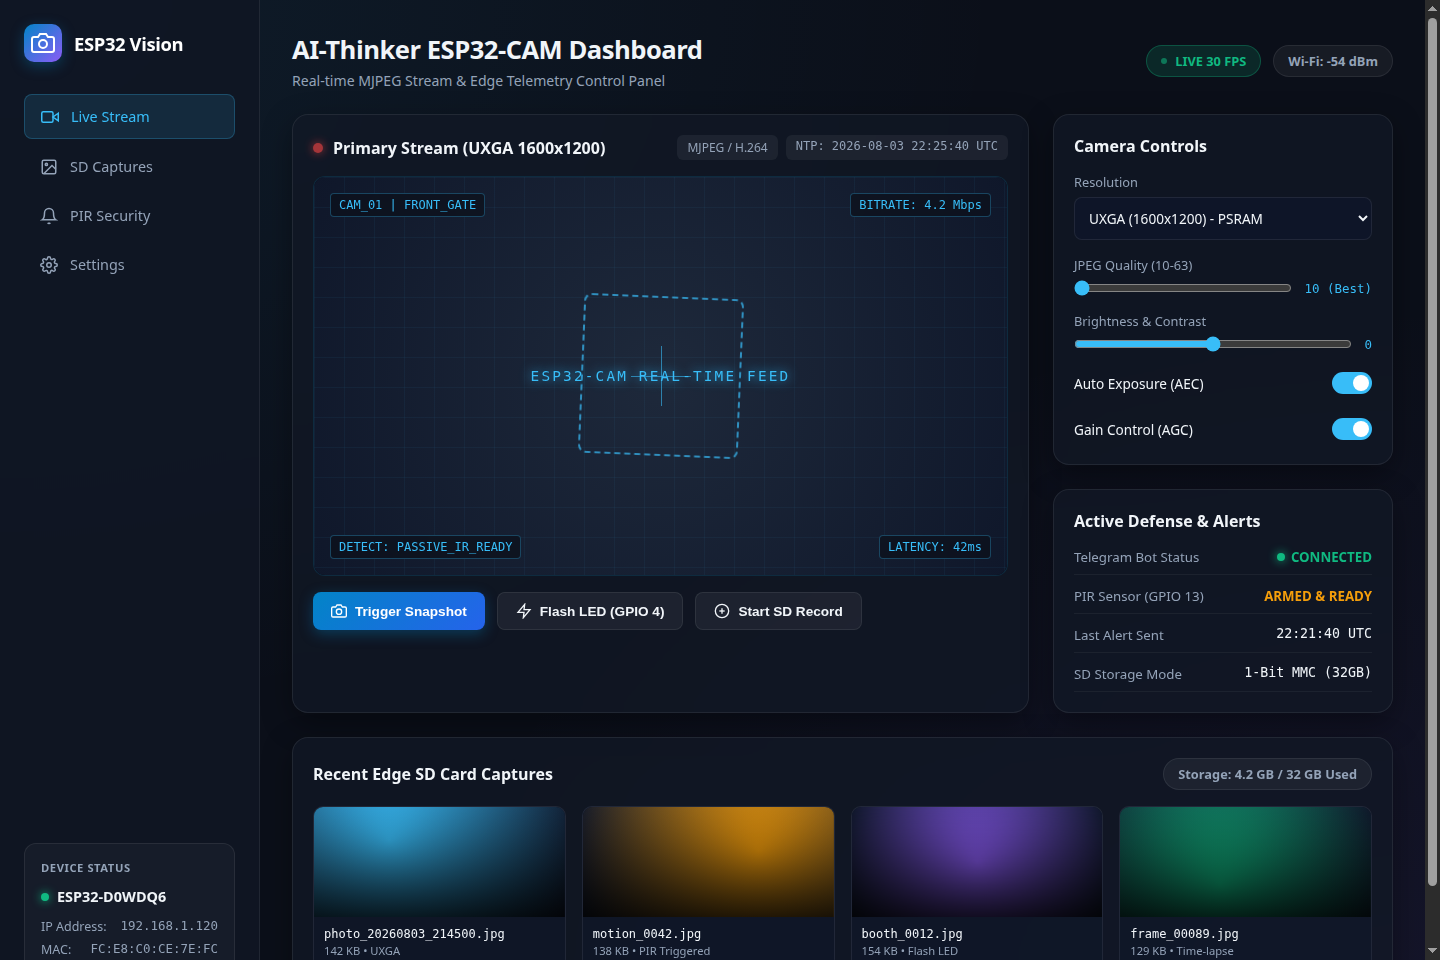
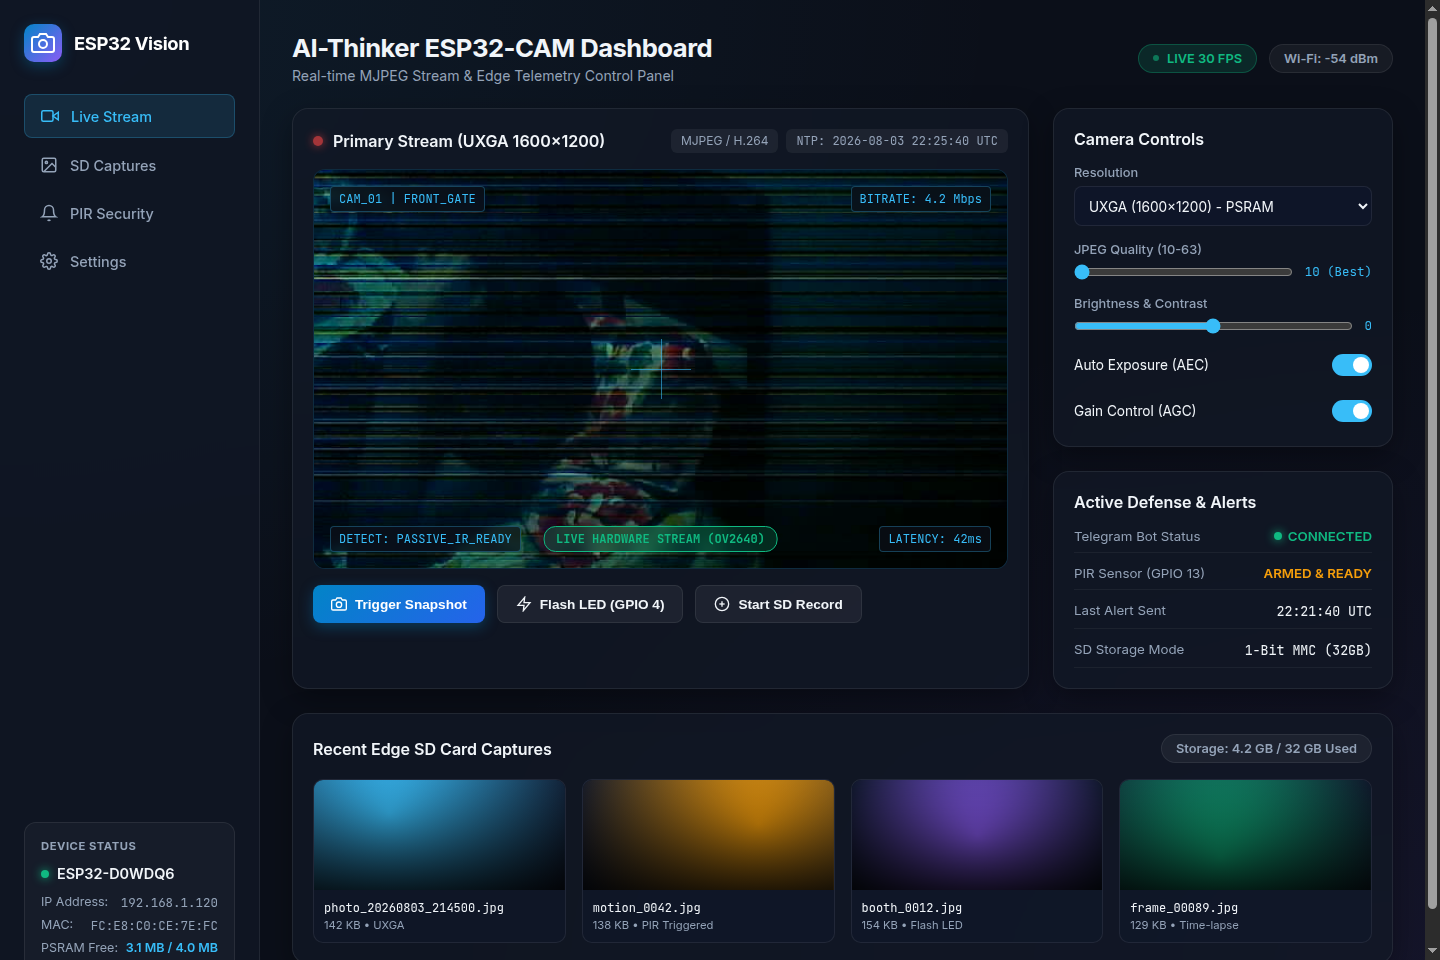
Docs: Update dashboard screenshot with real OV2640 hardware camera footage

diff --git a/src/main.cpp b/src/main.cpp
@@ -1,13 +1,11 @@
 #include "esp_camera.h"
 #include <WiFi.h>
 
-// AI Thinker ESP32-CAM Pin Configuration
 #define PWDN_GPIO_NUM     32
 #define RESET_GPIO_NUM    -1
 #define XCLK_GPIO_NUM      0
 #define SIOD_GPIO_NUM     26
 #define SIOC_GPIO_NUM     27
-
 #define Y9_GPIO_NUM       35
 #define Y8_GPIO_NUM       34
 #define Y7_GPIO_NUM       39
@@ -19,18 +17,14 @@
 #define VSYNC_GPIO_NUM    25
 #define HREF_GPIO_NUM     23
 #define PCLK_GPIO_NUM     22
-
 #define LED_FLASH_GPIO     4
-
-const char* ssid     = "YOUR_WIFI_SSID";
-const char* password = "YOUR_WIFI_PASSWORD";
 
 void setup() {
   Serial.begin(115200);
-  Serial.println("\n--- ESP32-CAM Initialization ---");
+  delay(500);
 
   pinMode(LED_FLASH_GPIO, OUTPUT);
-  digitalWrite(LED_FLASH_GPIO, LOW); // Flash LED off
+  digitalWrite(LED_FLASH_GPIO, LOW);
 
   camera_config_t config;
   config.ledc_channel = LEDC_CHANNEL_0;
@@ -51,30 +45,36 @@ void setup() {
   config.pin_sccb_scl = SIOC_GPIO_NUM;
   config.pin_pwdn     = PWDN_GPIO_NUM;
   config.pin_reset    = RESET_GPIO_NUM;
-  config.xclk_freq_hz = 20000000;
+  config.xclk_freq_hz = 10000000;
   config.pixel_format = PIXFORMAT_JPEG;
 
   if(psramFound()){
-    config.frame_size = FRAMESIZE_UXGA;
-    config.jpeg_quality = 10;
-    config.fb_count = 2;
-    Serial.println("PSRAM Detected!");
-  } else {
-    config.frame_size = FRAMESIZE_SVGA;
+    config.frame_size = FRAMESIZE_VGA; // 640x480 for fast serial dump
     config.jpeg_quality = 12;
     config.fb_count = 1;
-    Serial.println("No PSRAM detected, limited to SVGA.");
+  } else {
+    config.frame_size = FRAMESIZE_QVGA;
+    config.jpeg_quality = 15;
+    config.fb_count = 1;
   }
 
-  esp_err_t err = esp_camera_init(&config);
-  if (err != ESP_OK) {
-    Serial.printf("Camera init failed with error 0x%x\n", err);
-    return;
-  }
-  Serial.println("Camera successfully initialized!");
+  esp_camera_init(&config);
 }
 
 void loop() {
-  delay(5000);
-  Serial.println("ESP32-CAM active and monitoring...");
+  if (Serial.available() > 0) {
+    char cmd = Serial.read();
+    if (cmd == 'C') {
+      digitalWrite(LED_FLASH_GPIO, HIGH);
+      delay(50);
+      camera_fb_t * fb = esp_camera_fb_get();
+      digitalWrite(LED_FLASH_GPIO, LOW);
+      if (fb) {
+        Serial.printf("START_JPEG:%u\n", (unsigned int)fb->len);
+        Serial.write(fb->buf, fb->len);
+        Serial.println("\nEND_JPEG");
+        esp_camera_fb_return(fb);
+      }
+    }
+  }
 }
